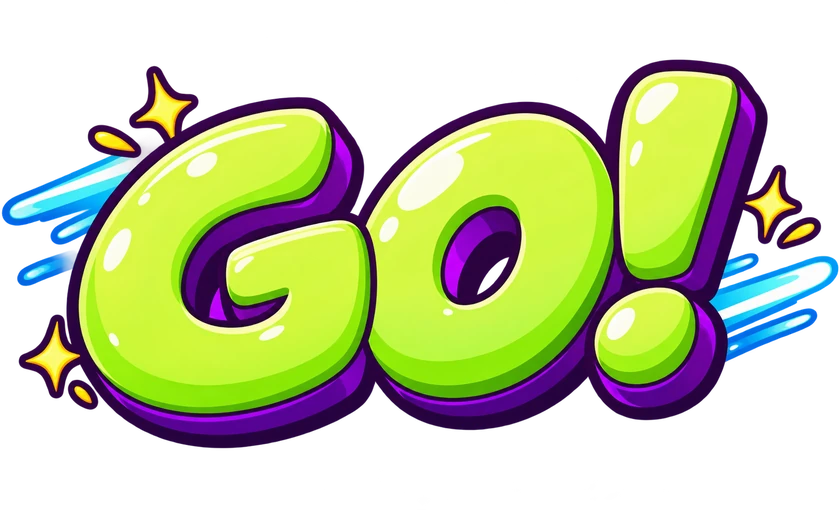
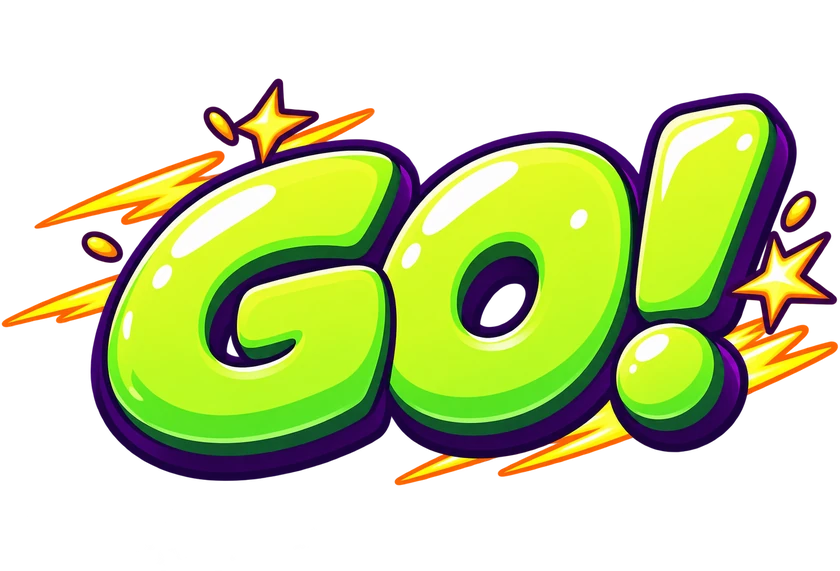
v0.9.90 GO! 글자 3번 그림으로

diff --git a/index.html b/index.html
@@ -1866,7 +1866,7 @@
   const elTitle = document.getElementById("overTitle");
   const coinNote = document.getElementById("coinNote");
 
-  const GAME_VERSION = "v0.9.89";
+  const GAME_VERSION = "v0.9.90";
   /* 제작사 스플래시(bamhobak friends 로고) — 2026-09-20 끔. 다시 켜려면 true */
   const SPLASH_USE = false;   // 코드를 고칠 때마다 뒤 두 자리를 올린다
   document.getElementById("ver").textContent = GAME_VERSION;

diff --git a/README.md b/README.md
@@ -5,7 +5,7 @@
 👉 **플레이: https://bamhobak.github.io/ddongpi/**
 
 > 이 문서는 `index.html` 의 실제 값을 옮겨 적은 것입니다. 숫자를 고쳤으면 여기도 같이 고쳐 주세요.
-> 마지막으로 맞춰 본 판: **v0.9.89**
+> 마지막으로 맞춰 본 판: **v0.9.90**
 
 ## ⚔ 대전모드 (v0.8.24 한 폰 · v0.8.25 두 폰)
 시작하기를 누르면 **[방 만들기] · [방 참가](방 번호 4자리) · [한 폰으로 둘이서]** 를 고릅니다.
